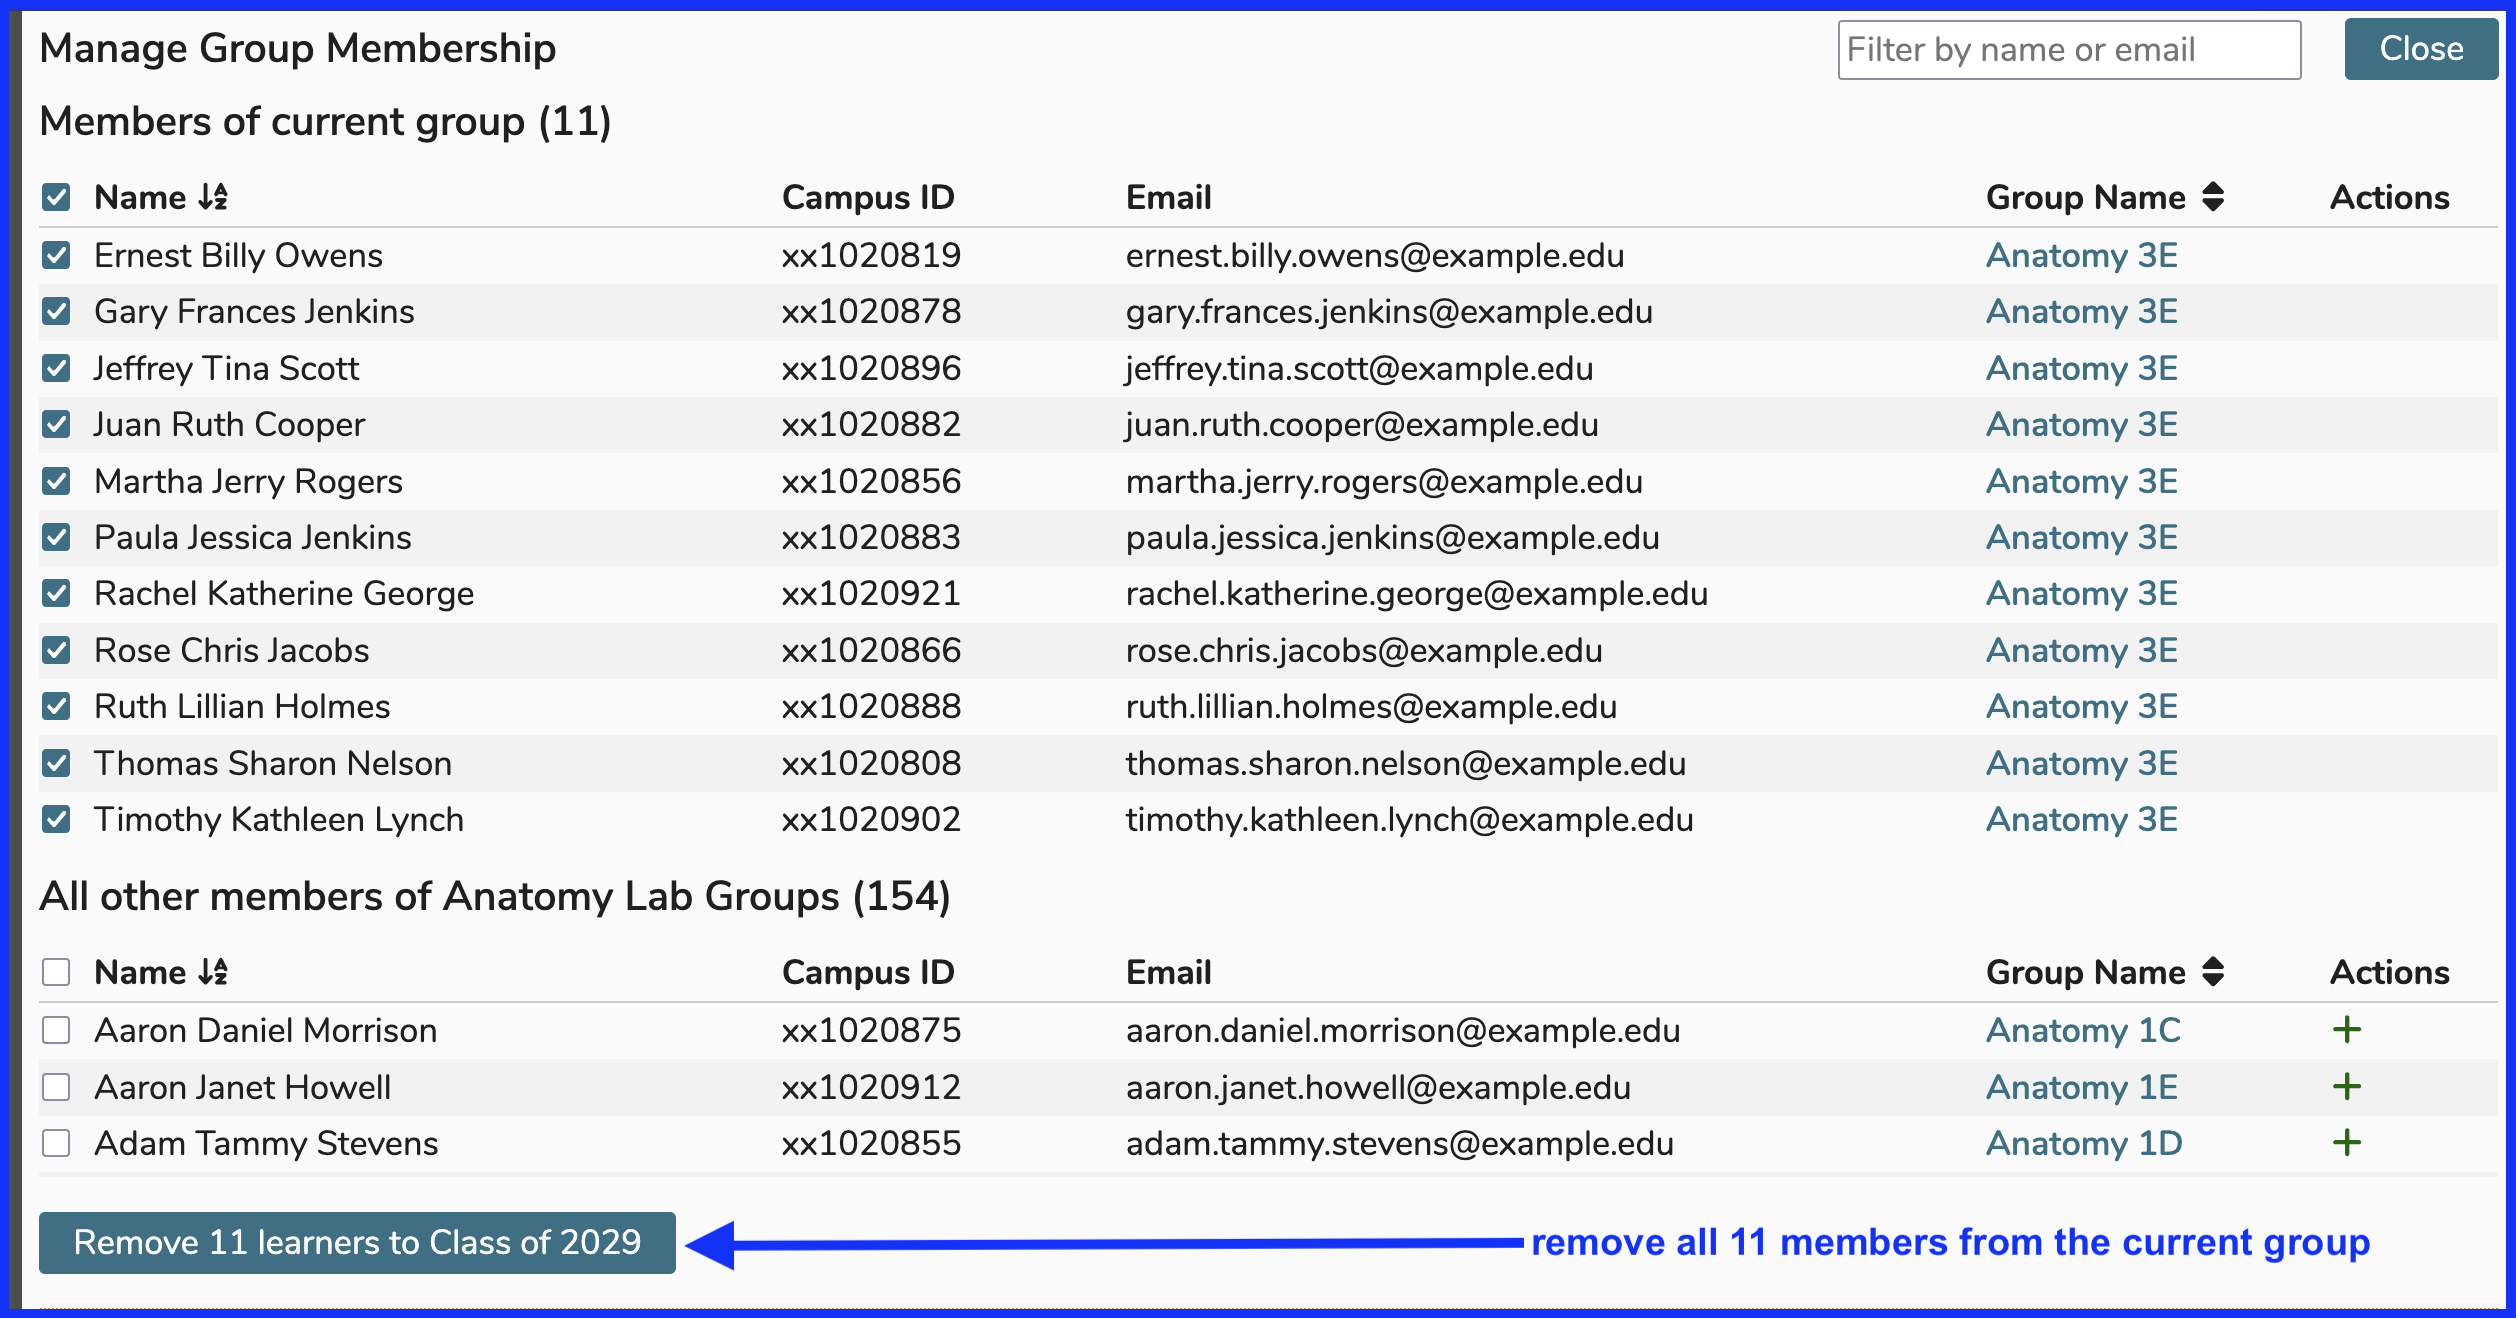
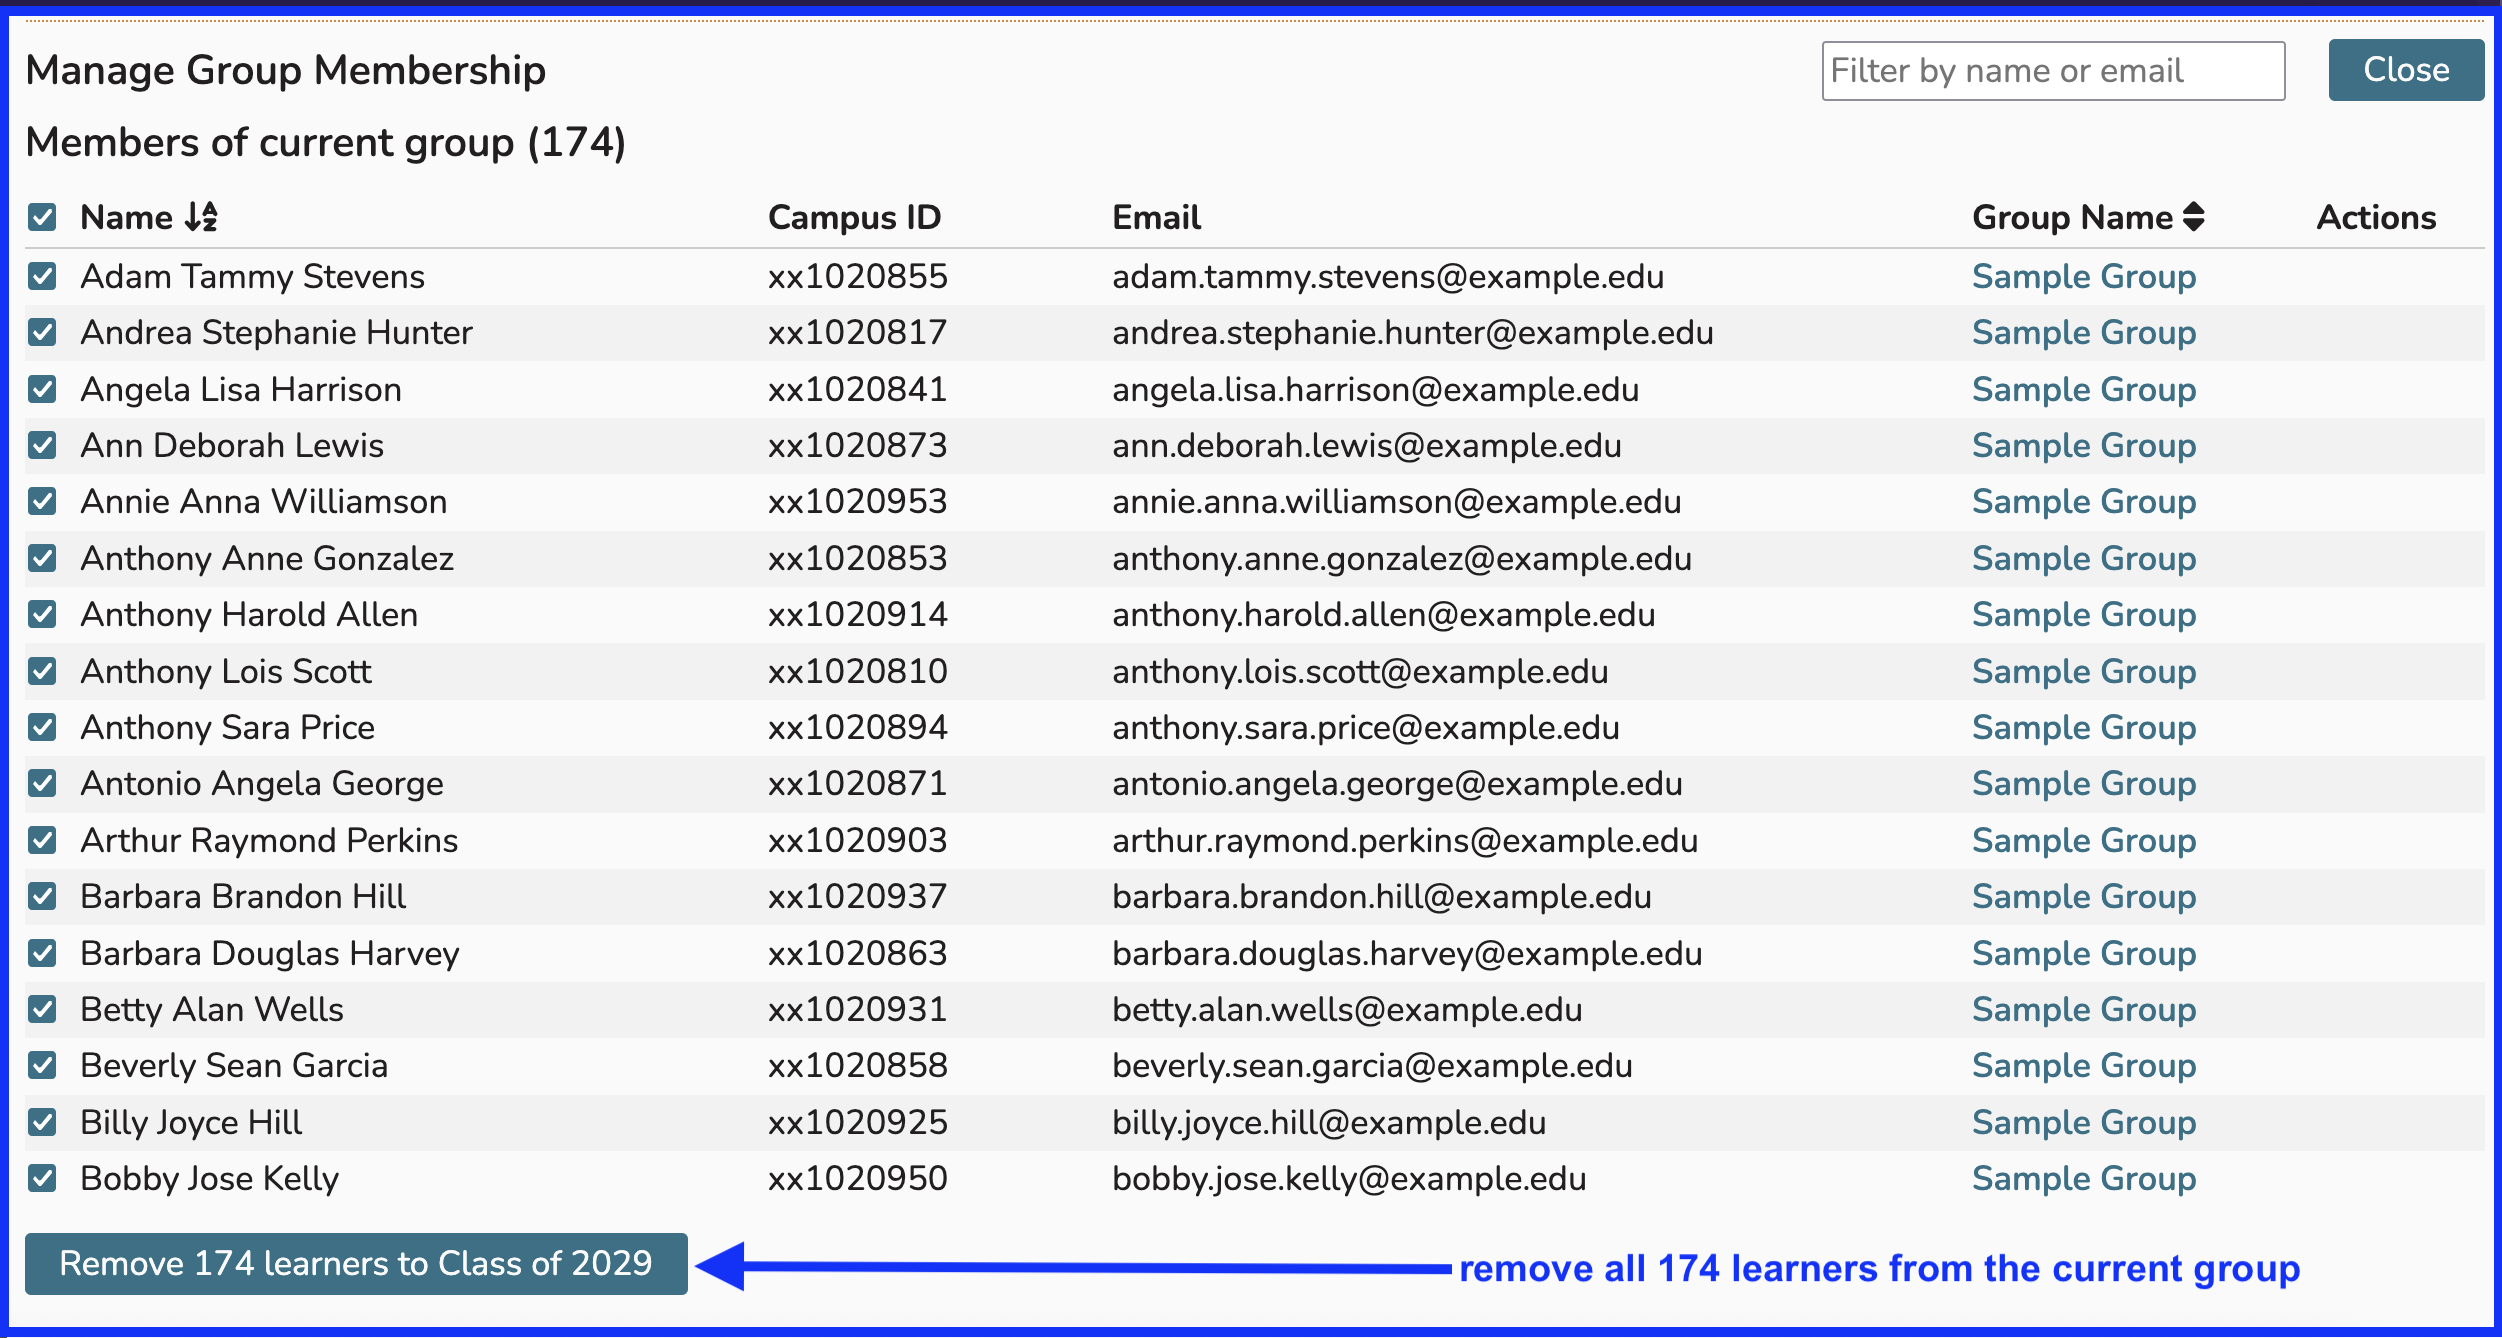
updated image and added text

diff --git a/learner-groups/remove-learner-group.md b/learner-groups/remove-learner-group.md
@@ -8,11 +8,15 @@ If you have been assigned permissions to delete Learner Groups, the trash can ic
 
 ## Remove Members
 
+### Individual Learners
+
 As pointed out above, it is not required to remove learners from a learner group before deleting the group from Ilios. You may still want to do that though for reporting and accuracy purposes. Removing all members from a Learner Group can be done in bulk. A test group is shown below. Members can also be removed individually as shown below.
 
 ![remove individual members](../images/delete_learner_group/remove_individual_members.png)
 
-Once the check box has selected as shown by the action indicated by the blue arrow above, the process of removing all of the members of the current Learner Group continues as demonstrated below. 
+### All Learners
+
+Once the check box has selected as shown by the action indicated by the blue arrow above referring to selecting "all members of current group", the process of removing all of the members of the current Learner Group continues as demonstrated below. 
 
 ![remove all members](../images/delete_learner_group/remove_all_members.png)
 
